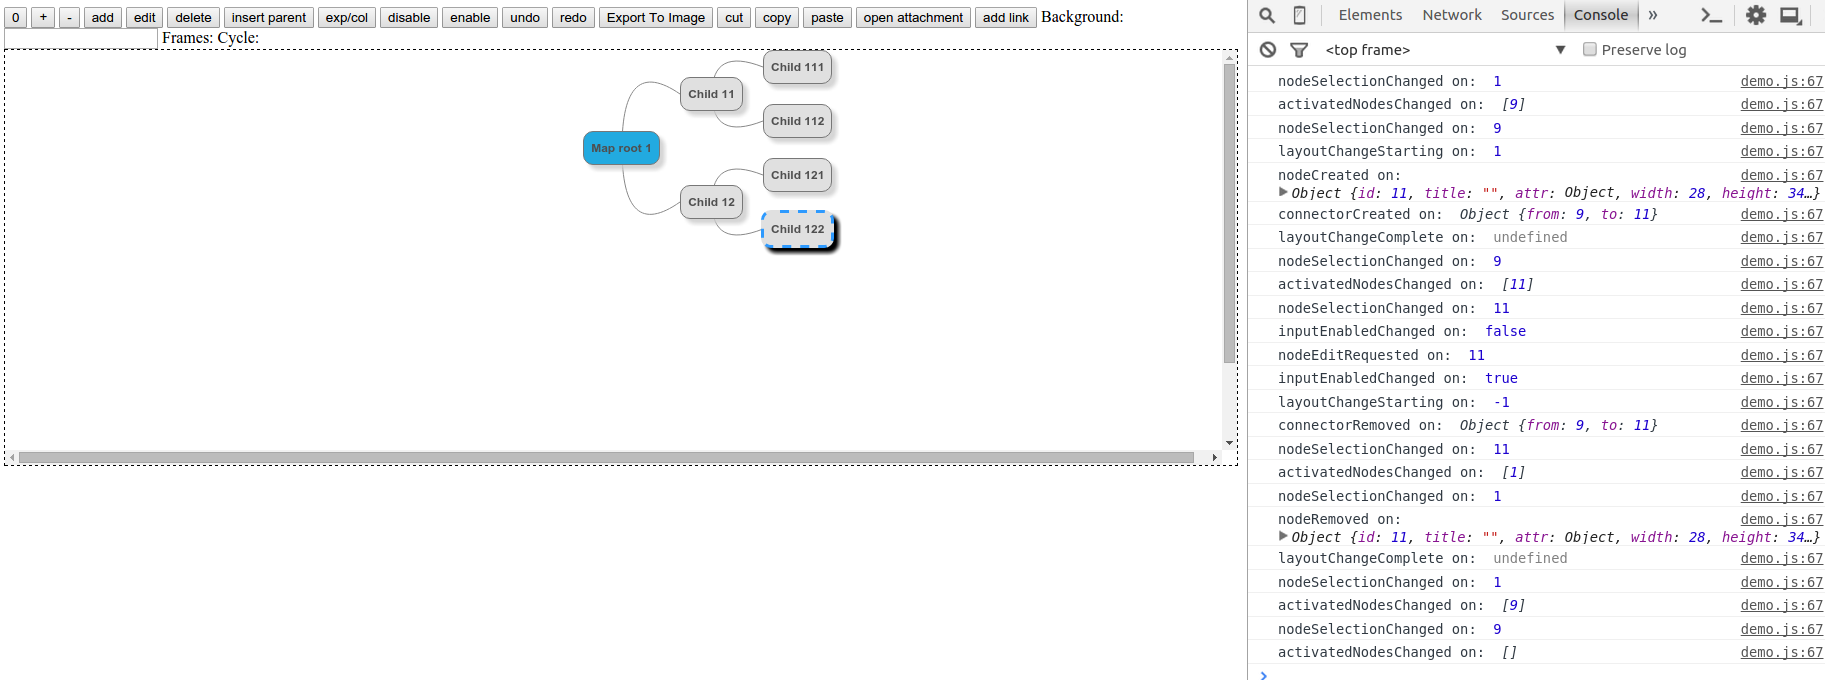
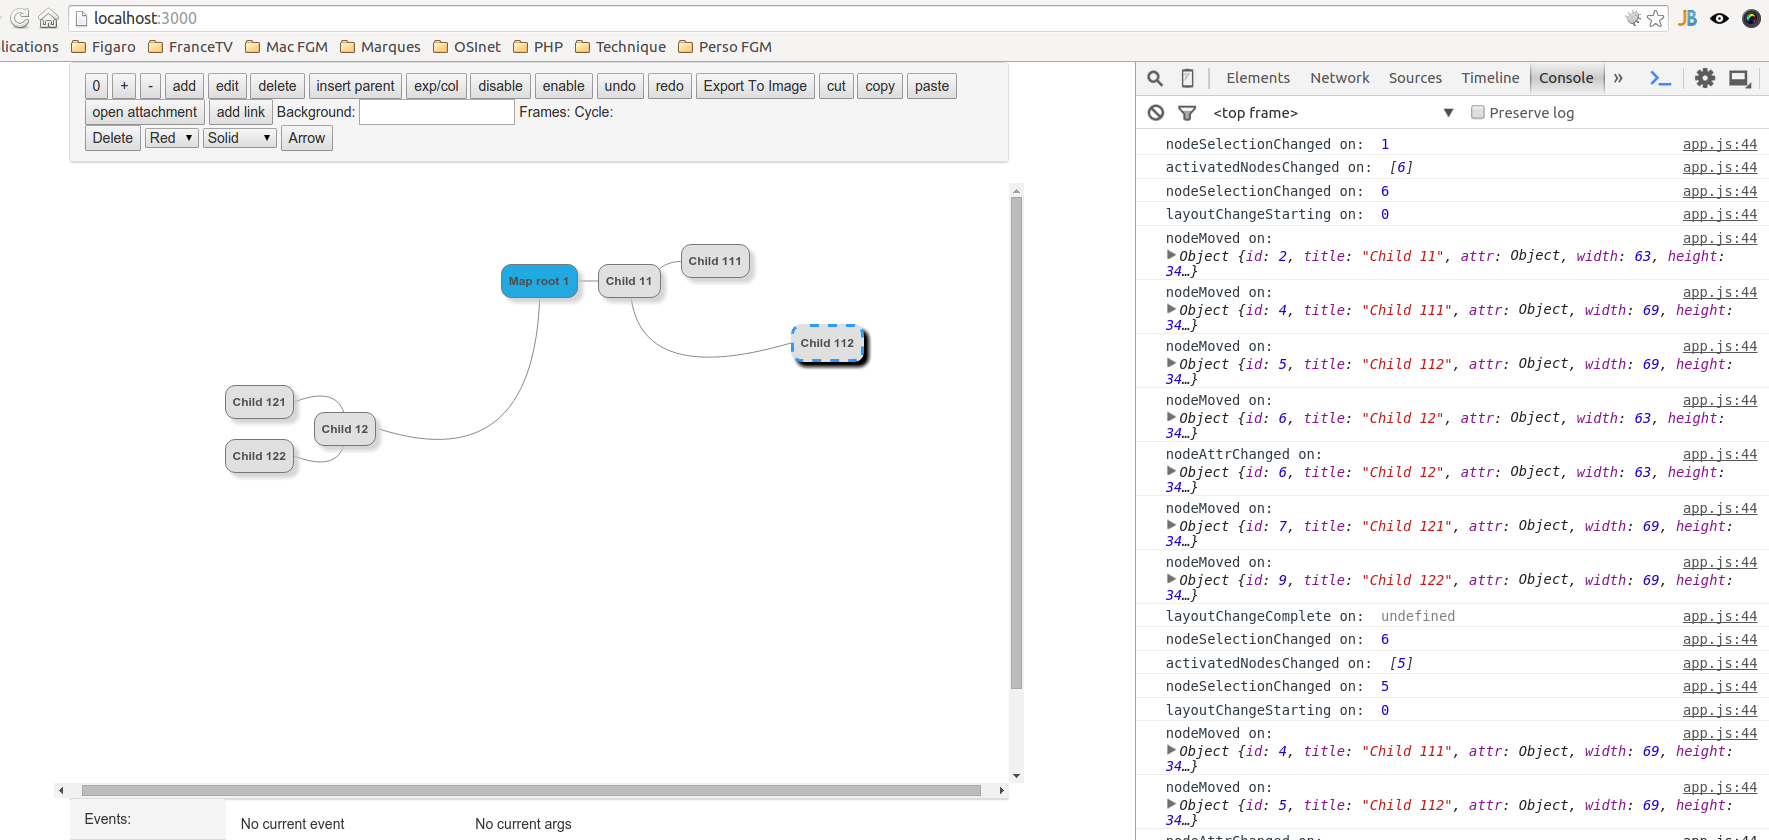
Starting to shape up: Boostrap panels with collection-driven info.

diff --git a/client/index.html b/client/index.html
@@ -1,67 +1,19 @@
 	<head>
 		<meta charset="utf-8" />
 		<meta name="viewport" content="user-scalable=no, width=device-width, initial-scale=1, maximum-scale=1">
-		<link rel="stylesheet" type="text/css" href="/mapjs/mapjs-default-styles.css"/>
-    <script type="text/javascript" src="/mapjs/lib/dependencies.js"></script>
-    <script type="text/javascript" src="/mapjs/src/observable.js"></script>
-    <script type="text/javascript" src="/mapjs/src/mapjs.js"></script>
-    <script type="text/javascript" src="/mapjs/src/url-helper.js"></script>
-    <script type="text/javascript" src="/mapjs/src/content.js"></script>
-    <script type="text/javascript" src="/mapjs/src/layout.js"></script>
-    <script type="text/javascript" src="/mapjs/src/clipboard.js"></script>
-    <script type="text/javascript" src="/mapjs/src/map-model.js"></script>
-    <script type="text/javascript" src="/mapjs/src/map-toolbar-widget.js"></script>
-    <script type="text/javascript" src="/mapjs/src/link-edit-widget.js"></script>
-    <script type="text/javascript" src="/mapjs/src/image-drop-widget.js"></script>
-    <script type="text/javascript" src="/mapjs/src/hammer-draggable.js"></script>
-    <script type="text/javascript" src="/mapjs/src/dom-map-view.js"></script>
-    <script type="text/javascript" src="/mapjs/src/dom-map-widget.js"></script>
 	</head>
 
 	<body>
-		<style>
-			#container {
-				background-color: #FFFFFF;
+    <div class="container">
 
-				height: 100%;
-				width: 100%;
-				border: 1px dashed black;
-			}
-		</style>
+      <div class="panel panel-default">
+        <div class="panel-heading">{{> toolbar }}</div>
+      </div>
 
-		<input type="button" class="resetView" value="0"/>
-		<input type="button" class="scaleUp" value="+" />
-		<input type="button" class="scaleDown" value="-" />
-		<input type="button" class="addSubIdea" value="add" />
-		<input type="button" class="editNode" value="edit" />
-		<input type="button" class="removeSubIdea" value="delete" />
-		<input type="button" class="insertIntermediate" value="insert parent" />
-		<input type="button" class="toggleCollapse" value="exp/col" />
-		<input type="button" onclick="mapModel.setInputEnabled(false)" value="disable" />
-		<input type="button" onclick="mapModel.setInputEnabled(true)" value="enable" />
-		<input type="button" class="undo" value="undo" />
-		<input type="button" class="redo" value="redo" />
-		<input type="button" data-mm-action="export-image" value="Export To Image"/>
-		<input type="button" class="cut" value="cut" />
-		<input type="button" class="copy" value="copy" />
-		<input type="button" class="paste" value="paste" />
-		<input type="button" class="openAttachment" value="open attachment" />
-		<input type="button" class="toggleAddLinkMode" value="add link" />
-		Background: <input type="text" class='updateStyle' data-mm-target-property='background' />
-    Frames: <span id="framerate"></span>
-    Cycle: <span id="cyclerate"></span>
-		<div id="linkEditWidget">
-			<input class="delete" type="button" value="Delete" />
-			<select class="color">
-				<option value="red">Red</option>
-				<option value="blue">Blue</option>
-			</select>
-			<select class="lineStyle">
-				<option value="solid">Solid</option>
-				<option value="dashed">Dashed</option>
-			</select>
-			<button class="arrow">Arrow</button>
-		</div>
-		<div id="container"></div>
+      <div class="row">
+        <div id="container" class="col-sm-12"></div>
+      </div>
 
+      {{> diag }}
+    </div>
 	</body>

diff --git a/client/buttons.html b/client/buttons.html
@@ -1,0 +1,38 @@
+<template name="toolbar">
+  <input type="button" class="resetView" value="0"/>
+  <input type="button" class="scaleUp" value="+"/>
+  <input type="button" class="scaleDown" value="-"/>
+  <input type="button" class="addSubIdea" value="add"/>
+  <input type="button" class="editNode" value="edit"/>
+  <input type="button" class="removeSubIdea" value="delete"/>
+  <input type="button" class="insertIntermediate" value="insert parent"/>
+  <input type="button" class="toggleCollapse" value="exp/col"/>
+  <input type="button" onclick="mapModel.setInputEnabled(false)" value="disable"/>
+  <input type="button" onclick="mapModel.setInputEnabled(true)" value="enable"/>
+  <input type="button" class="undo" value="undo"/>
+  <input type="button" class="redo" value="redo"/>
+  <input type="button" data-mm-action="export-image" value="Export To Image"/>
+  <input type="button" class="cut" value="cut"/>
+  <input type="button" class="copy" value="copy"/>
+  <input type="button" class="paste" value="paste"/>
+  <input type="button" class="openAttachment" value="open attachment"/>
+  <input type="button" class="toggleAddLinkMode" value="add link"/>
+
+  Background: <input type="text" class='updateStyle' data-mm-target-property='background'/>
+  Frames: <span id="framerate"></span>
+  Cycle: <span id="cyclerate"></span>
+
+  <div id="linkEditWidget">
+    <input class="delete" type="button" value="Delete"/>
+    <select class="color">
+      <option value="red">Red</option>
+      <option value="blue">Blue</option>
+    </select>
+    <select class="lineStyle">
+      <option value="solid">Solid</option>
+      <option value="dashed">Dashed</option>
+    </select>
+    <button class="arrow">Arrow</button>
+  </div>
+
+</template>

diff --git a/client/demo.js b/client/demo.js
@@ -21,56 +21,9 @@ var initDemoFunctions = function () {
   };
 };
 
-
-var observer = function () {
-  var events = [
-    'activatedNodesChanged',
-    'activedNodesChanged',
-    'addLinkModeToggled',
-    'attachmentOpened',
-    'connectorCreated',
-    'connectorRemoved',
-    'contextMenuRequested',
-    'inputEnabledChanged',
-    'layoutChangeComplete',
-    'layoutChangeStarting',
-    'linkAttrChanged',
-    'linkCreated',
-    'linkRemoved',
-    'linkSelected',
-    'mapMoveRequested',
-    'mapScaleChanged',
-    'mapViewResetRequested',
-    'nodeAttrChanged',
-    'nodeCreated',
-    'nodeEditRequested',
-    'nodeFocusRequested',
-    'nodeIconEditRequested',
-    'nodeLabelChanged',
-    'nodeMoved',
-    'nodeRemoved',
-    'nodeSelectionChanged',
-    'nodeTitleChanged'
-  ];
-
-  /**
-   *
-   * @param e
-   * @param mixed params
-   *   - node id: nodeSelectionChanged,
-   *   - [node ids]: activatedNodesChanged
-   *   - -1: layoutChangeStarting
-   *   - { from: nid1, to: nid2 }: connectorRemoved
-   *   - undefined: layoutChangeComplete
-   */
-  var observer = function (eventName, params) {
-    console.log(eventName, "on: ", params);
-  };
-
-  events.forEach(function (eventname) {
-    mapModel.addEventListener(eventname, function (id) { observer(eventname, id); });
-  });
-
+var forceHeightHack = function () {
+  // console.log('FHH');
+  jQuery('[data-mapjs-role=stage]').css('min-height', 600);
 };
 
 var modelCreator = function () {
@@ -117,6 +70,8 @@ var modelCreator = function () {
   });
 
   observer();
+  setTimeout(forceHeightHack, 100);
+  setInterval(forceHeightHack, 1000);
 };
 
 Meteor.startup(function () {

diff --git a/client/app.js b/client/app.js
@@ -1,0 +1,51 @@
+
+observer = function () {
+  var events = [
+    'activatedNodesChanged',
+    'activedNodesChanged',
+    'addLinkModeToggled',
+    'attachmentOpened',
+    'connectorCreated',
+    'connectorRemoved',
+    'contextMenuRequested',
+    'inputEnabledChanged',
+    'layoutChangeComplete',
+    'layoutChangeStarting',
+    'linkAttrChanged',
+    'linkCreated',
+    'linkRemoved',
+    'linkSelected',
+    'mapMoveRequested',
+    'mapScaleChanged',
+    'mapViewResetRequested',
+    'nodeAttrChanged',
+    'nodeCreated',
+    'nodeEditRequested',
+    'nodeFocusRequested',
+    'nodeIconEditRequested',
+    'nodeLabelChanged',
+    'nodeMoved',
+    'nodeRemoved',
+    'nodeSelectionChanged',
+    'nodeTitleChanged'
+  ];
+
+  /**
+   *
+   * @param e
+   * @param mixed params
+   *   - node id: nodeSelectionChanged,
+   *   - [node ids]: activatedNodesChanged
+   *   - -1: layoutChangeStarting
+   *   - { from: nid1, to: nid2 }: connectorRemoved
+   *   - undefined: layoutChangeComplete
+   */
+  var observer = function (eventName, params) {
+    console.log(eventName, "on: ", params);
+  };
+
+  events.forEach(function (eventname) {
+    mapModel.addEventListener(eventname, function (id) { observer(eventname, id); });
+  });
+
+};

diff --git a/client/mapjs.html b/client/mapjs.html
@@ -1,0 +1,19 @@
+<head>
+  <link rel="stylesheet" type="text/css" href="/mapjs/mapjs-default-styles.css"/>
+
+  <script type="text/javascript" src="/mapjs/lib/dependencies.js"></script>
+
+  <script type="text/javascript" src="/mapjs/src/observable.js"></script>
+  <script type="text/javascript" src="/mapjs/src/mapjs.js"></script>
+  <script type="text/javascript" src="/mapjs/src/url-helper.js"></script>
+  <script type="text/javascript" src="/mapjs/src/content.js"></script>
+  <script type="text/javascript" src="/mapjs/src/layout.js"></script>
+  <script type="text/javascript" src="/mapjs/src/clipboard.js"></script>
+  <script type="text/javascript" src="/mapjs/src/map-model.js"></script>
+  <script type="text/javascript" src="/mapjs/src/map-toolbar-widget.js"></script>
+  <script type="text/javascript" src="/mapjs/src/link-edit-widget.js"></script>
+  <script type="text/javascript" src="/mapjs/src/image-drop-widget.js"></script>
+  <script type="text/javascript" src="/mapjs/src/hammer-draggable.js"></script>
+  <script type="text/javascript" src="/mapjs/src/dom-map-view.js"></script>
+  <script type="text/javascript" src="/mapjs/src/dom-map-widget.js"></script>
+</head>

diff --git a/client/index.js b/client/index.js
@@ -1,0 +1,17 @@
+var fetchLatestEvent = function () {
+};
+
+Template.diag.helpers({
+  latestEvent: function () {
+    var result = MapEvents.findOne({}, {_id: -1});
+    if (result === undefined) {
+      result = {
+        name: "No current event",
+        args: "No current args"
+      }
+    }
+    else {
+    }
+    return result;
+  }
+});

diff --git a/client/diag.html b/client/diag.html
@@ -1,0 +1,7 @@
+<template name="diag">
+  <div class="panel panel-default">
+    <div class="panel-heading col-sm-2">Events:</div>
+    <div class="panel-body col-sm-3">{{ latestEvent.name }}</div>
+    <div class="panel-body col-sm-7">{{ latestEvent.args }}</div>
+  </div>
+</template>

diff --git a/lib/collections.js b/lib/collections.js
@@ -1,0 +1,1 @@
+MapEvents = new Mongo.Collection("map_events");
